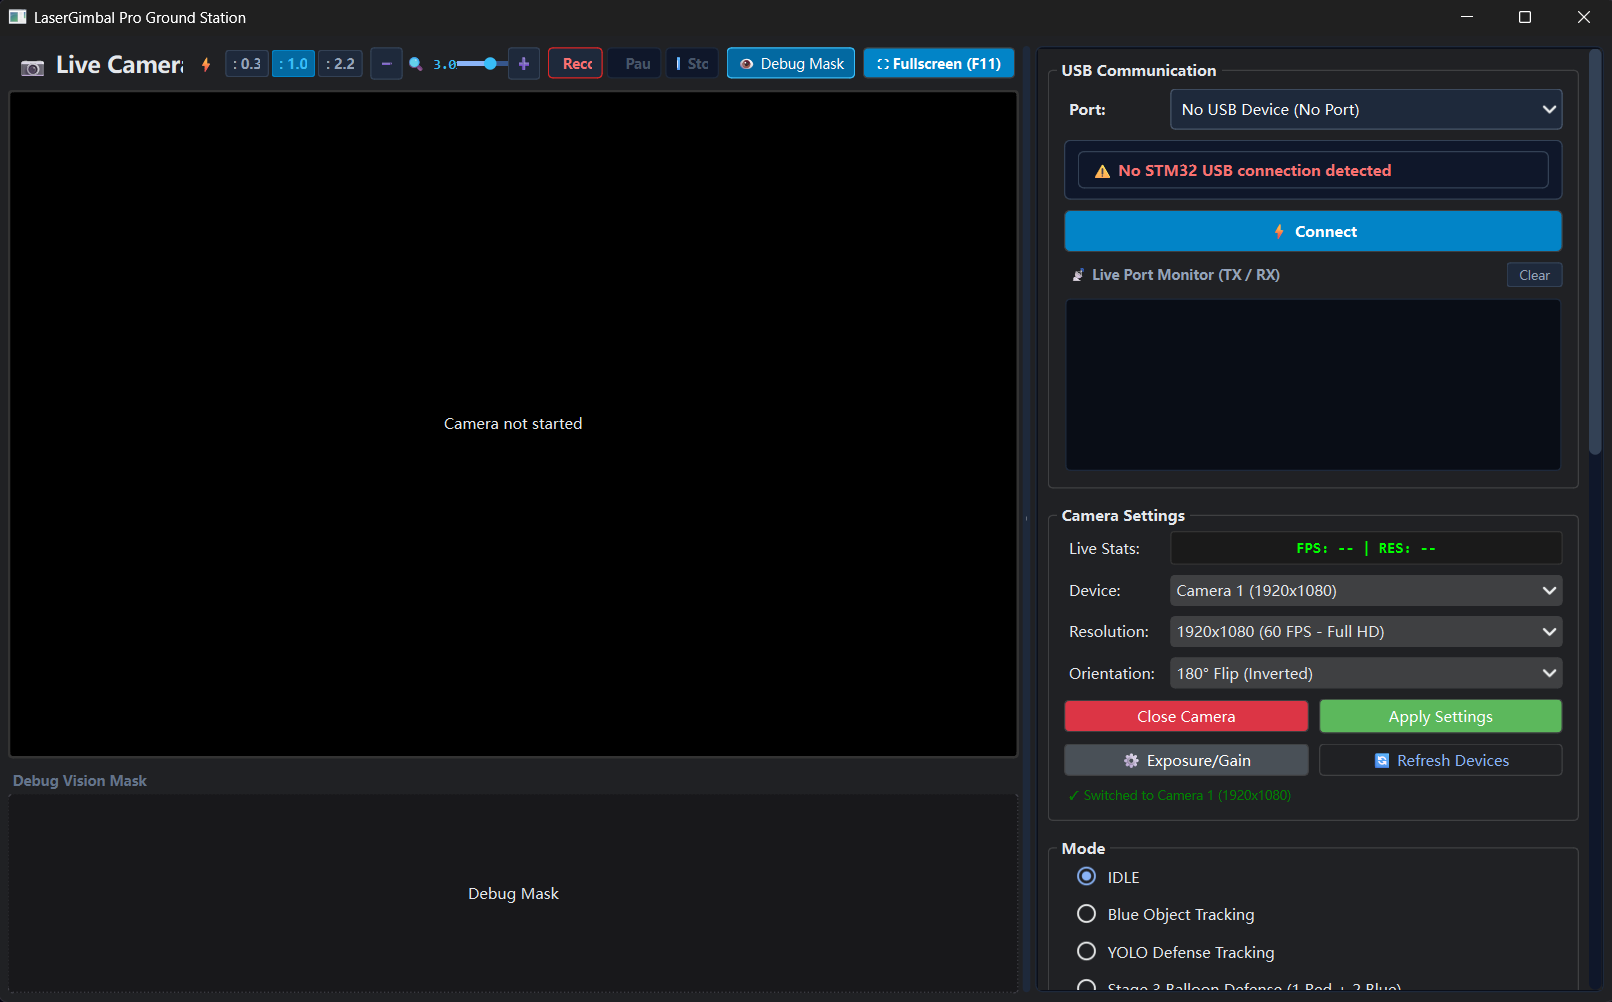
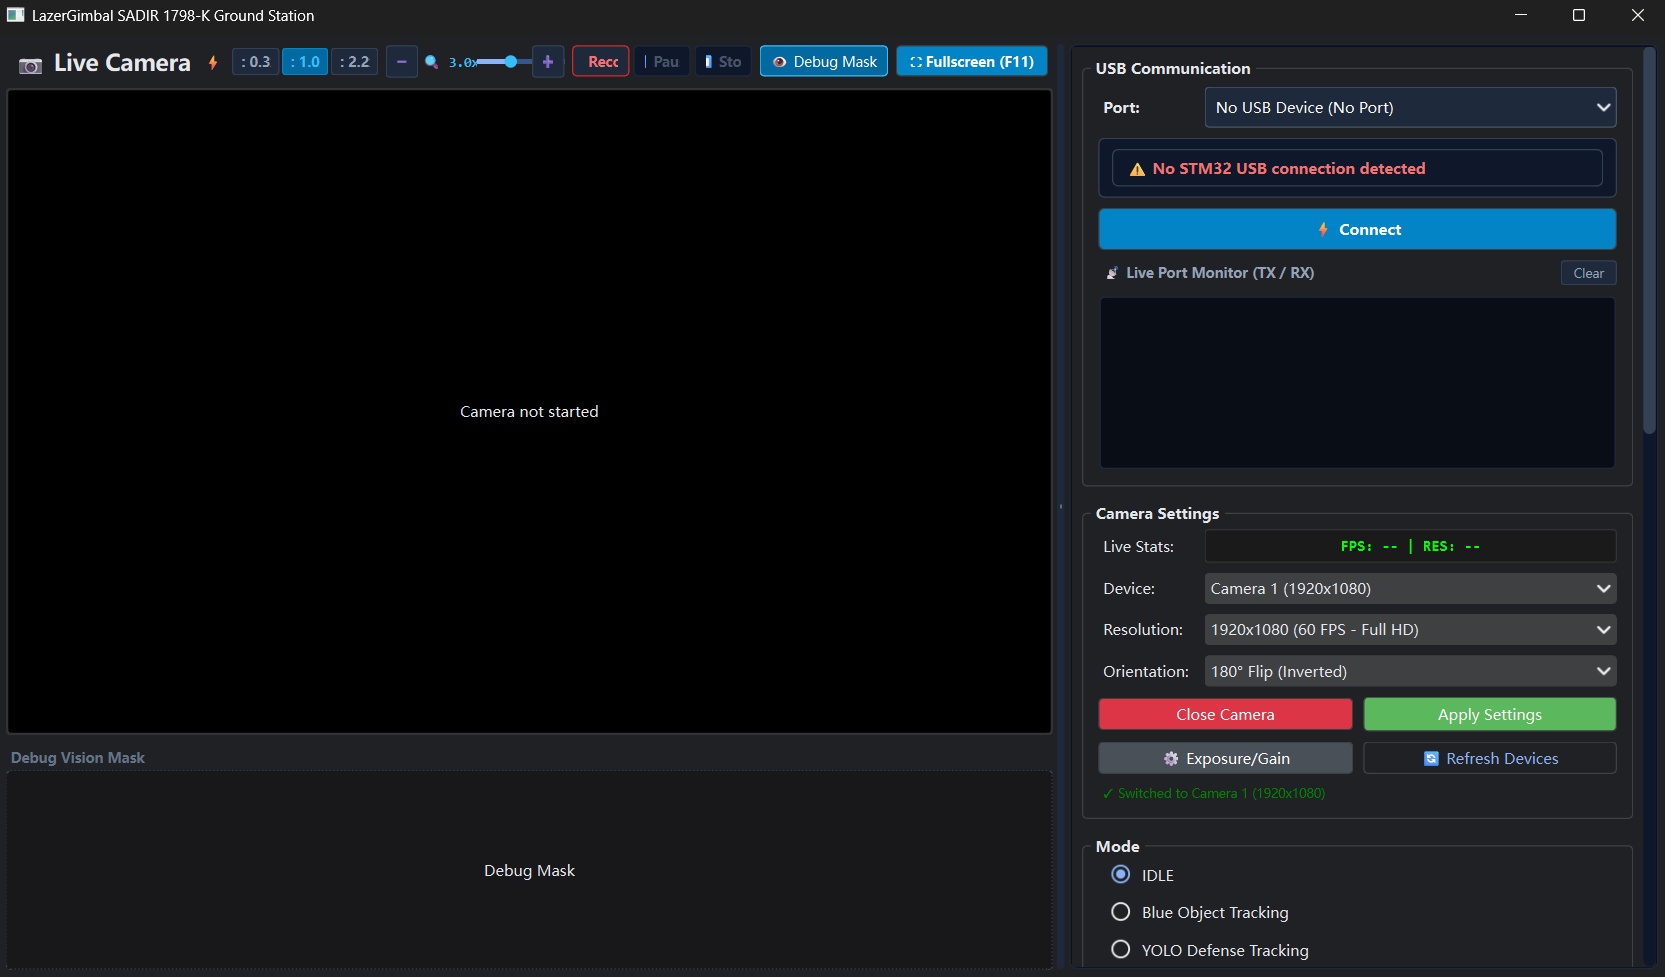
docs: rename project to LazerGimbal SADIR 1798-K and update UI title

diff --git a/gui/main_window.py b/gui/main_window.py
@@ -71,7 +71,7 @@ class MainWindow(QMainWindow):
     """
     def __init__(self):
         super().__init__()
-        self.setWindowTitle("LaserGimbal Pro Ground Station")
+        self.setWindowTitle("LazerGimbal SADIR 1798-K Ground Station")
         self.resize(1260, 820)
         self.setMinimumSize(960, 640)
         self.is_camera_fullscreen = False

diff --git a/README_TR.md b/README_TR.md
@@ -1,4 +1,4 @@
-# 🎯 LazerGimbal Pro
+# 🎯 LazerGimbal SADIR 1798-K
 
 <div align="center">
 
@@ -61,7 +61,7 @@
 
 ## 📌 Genel Bakış (Overview)
 
-**LazerGimbal Pro**, hassas hedef tespiti, dost/düşman ayrımı (IFF) ve lazerle angajman görevleri için geliştirilmiş endüstriyel kalitede 2 eksenli kapalı çevrim bir optik hava savunma gimbal sistemidir. **TEKNOFEST 2026 Çelikkubbe Hava Savunma Sistemleri Yarışması** gereksinimlerine tam uyumlu olarak tasarlanmış olup yüksek hızlı bilgisayarlı görü ile gerçek zamanlı mikrodenetleyici kontrolünü entegre eder.
+**LazerGimbal SADIR 1798-K**, hassas hedef tespiti, dost/düşman ayrımı (IFF) ve lazerle angajman görevleri için geliştirilmiş endüstriyel kalitede 2 eksenli kapalı çevrim bir optik hava savunma gimbal sistemidir. **TEKNOFEST 2026 Çelikkubbe Hava Savunma Sistemleri Yarışması** gereksinimlerine tam uyumlu olarak tasarlanmış olup yüksek hızlı bilgisayarlı görü ile gerçek zamanlı mikrodenetleyici kontrolünü entegre eder.
 
 Sistem üç ana sacayağından oluşur:
 1. **Ana Bilgisayar Yapay Zeka & Görü Motoru (PC / PyQt6 / Python)**: 60 FPS hızında global shutter kamera akışını işler, çok uzaylı (HSV+BGR+CIELAB) IFF algoritması ile dost/düşman hedefleri ayrıştırır ve Ultralytics YOLO tabanlı derin öğrenme çıkarımını sıfır NMS gecikmesiyle yürütür.

diff --git a/README.md b/README.md
@@ -1,4 +1,4 @@
-# 🎯 LazerGimbal Pro
+# 🎯 LazerGimbal SADIR 1798-K
 
 <div align="center">
 
@@ -61,7 +61,7 @@
 
 ## 📌 Executive Summary
 
-**LazerGimbal Pro** is an industrial-grade, 2-axis closed-loop optical laser tracking and air defense gimbal platform engineered for precision target acquisition, identification, and neutralisation. Built for **TEKNOFEST 2026 Çelikkubbe Air Defense Systems Competition**, the system tightly integrates high-speed computer vision with real-time embedded hardware control.
+**LazerGimbal SADIR 1798-K** is an industrial-grade, 2-axis closed-loop optical laser tracking and air defense gimbal platform engineered for precision target acquisition, identification, and neutralisation. Built for **TEKNOFEST 2026 Çelikkubbe Air Defense Systems Competition**, the system tightly integrates high-speed computer vision with real-time embedded hardware control.
 
 The system is architected across three core pillars:
 1. **Host AI & Vision Engine (PC / PyQt6 / Python)**: Processes live camera streams at 60 FPS (using global shutter sensors), runs multi-space IFF (Identification Friend or Foe) chromatic algorithms, and executes Ultralytics YOLO deep-learning target classification with zero NMS latency.
